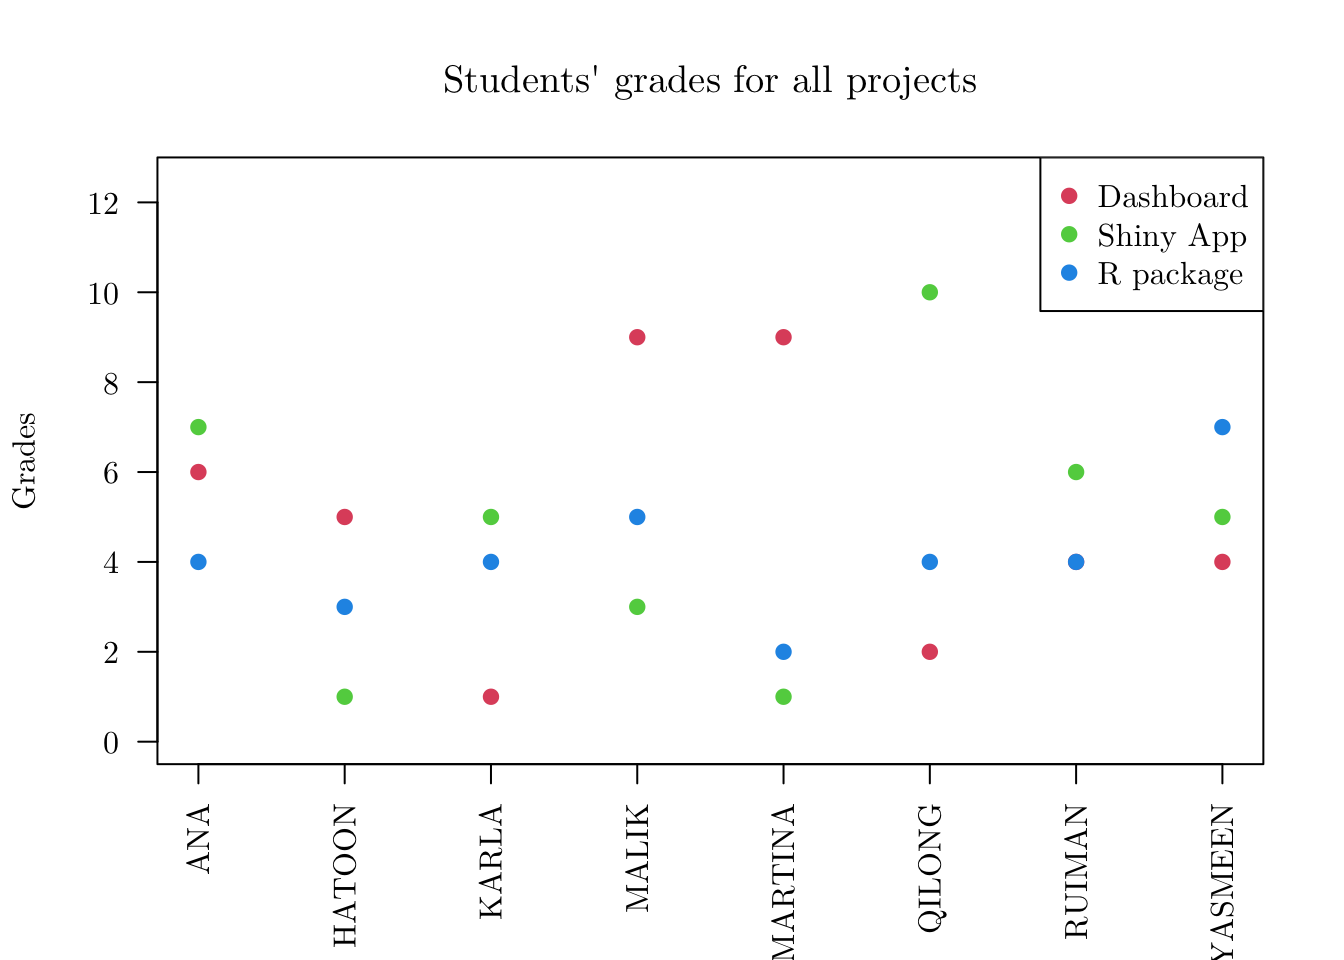
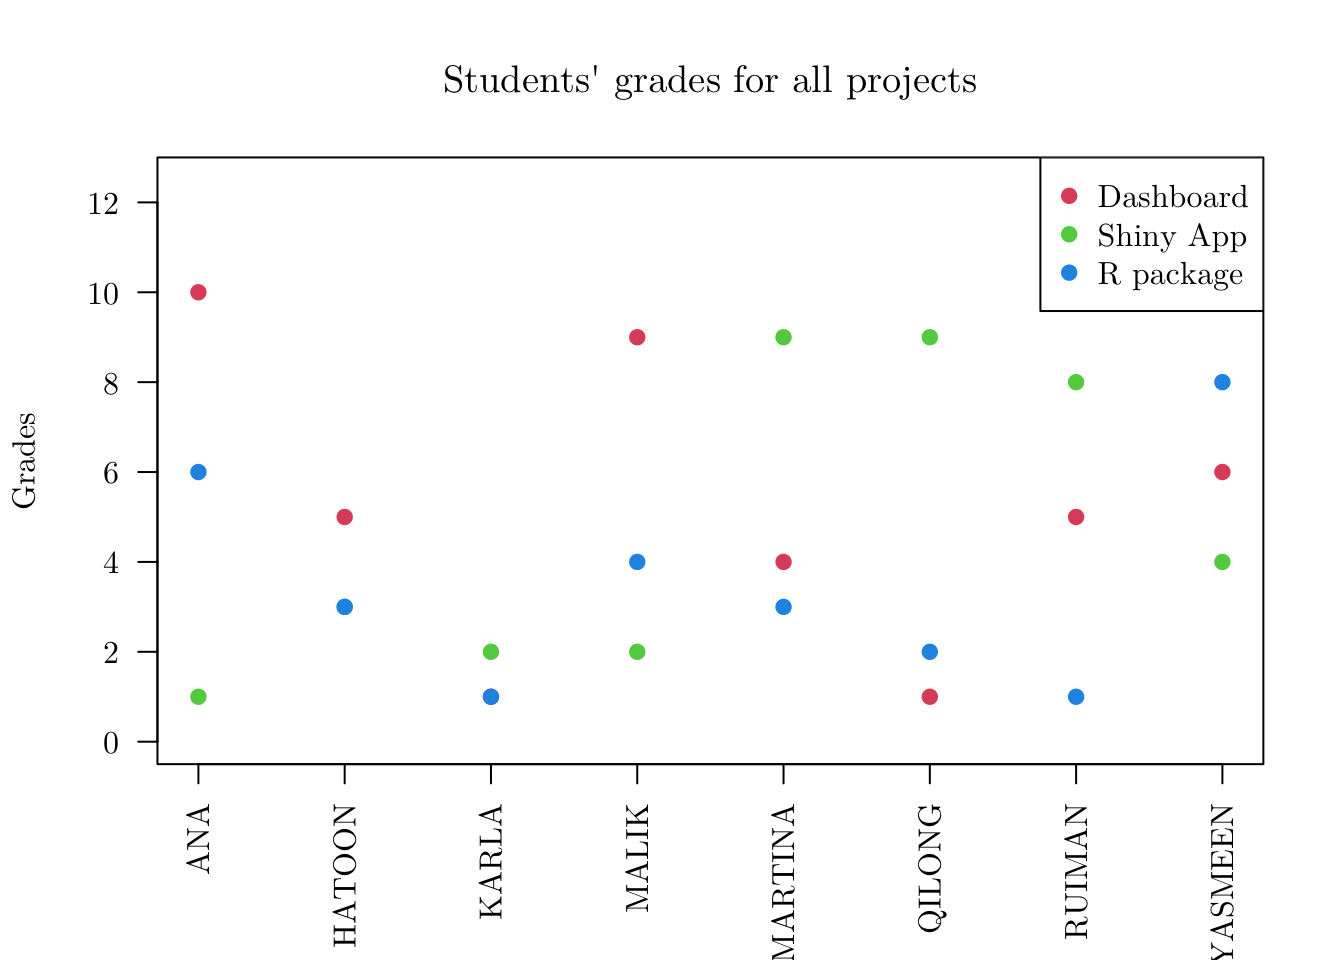
update oop tutorial

diff --git a/docs/oop.html b/docs/oop.html
@@ -438,12 +438,12 @@ fact</code></pre>
 ##      3      2</code></pre>
 <pre class="r"><code>summary(df)</code></pre>
 <pre><code>##        V1                V2          
-##  Min.   :-1.7095   Min.   :-0.22376  
-##  1st Qu.:-1.4945   1st Qu.:-0.01754  
-##  Median :-1.2795   Median : 0.18868  
-##  Mean   :-1.2795   Mean   : 0.18868  
-##  3rd Qu.:-1.0645   3rd Qu.: 0.39490  
-##  Max.   :-0.8495   Max.   : 0.60111</code></pre>
+##  Min.   :-1.0285   Min.   :-0.05797  
+##  1st Qu.:-0.8823   1st Qu.:-0.05535  
+##  Median :-0.7361   Median :-0.05273  
+##  Mean   :-0.7361   Mean   :-0.05273  
+##  3rd Qu.:-0.5898   3rd Qu.:-0.05011  
+##  Max.   :-0.4436   Max.   :-0.04750</code></pre>
 <p>For the <code>fact</code> object, <code>summary()</code> returns the count of observations in each class, and for the <code>df</code> object, it returns a few statistics that can be computed for each numeric vector (represented by <code>df</code>’s columns).</p>
 <p>If we want to check if a particular function is a <strong>generic function</strong>, we can use the <code>ftype()</code> function from the <code>sloop</code> package.</p>
 <pre class="r"><code>library(sloop)
@@ -469,7 +469,7 @@ sloop::ftype(f = summary)</code></pre>
 ##         c(tt, `NA&#39;s` = sum(nas))
 ##     else tt
 ## }
-## &lt;bytecode: 0x7fea82c820f0&gt;
+## &lt;bytecode: 0x7fcd60e0ca28&gt;
 ## &lt;environment: namespace:base&gt;</code></pre>
 <pre class="r"><code>summary.data.frame</code></pre>
 <pre><code>## function (object, maxsum = 7L, digits = max(3L, getOption(&quot;digits&quot;) - 
@@ -538,7 +538,7 @@ sloop::ftype(f = summary)</code></pre>
 ##     attr(z, &quot;class&quot;) &lt;- c(&quot;table&quot;)
 ##     z
 ## }
-## &lt;bytecode: 0x7fea82cde4e0&gt;
+## &lt;bytecode: 0x7fcd60e68e18&gt;
 ## &lt;environment: namespace:base&gt;</code></pre>
 <div class="space">
 
@@ -923,7 +923,13 @@ library(R6)</code></pre>
     invisible(self)
   }
 )) </code></pre>
-<p>A few things to be noticed from the above code: - The class name (<code>Students</code>) is the same as the <code>classname</code> parameter (<code>Students</code>). - For the <code>public</code> parameter (<code>private</code> and <code>active</code> also exist), we are defining <strong>attributes</strong> (<code>n_students</code>, <code>ids</code>, <code>names</code>) and <strong>methods</strong> (<code>add_student()</code>). - Inside the <code>add_student()</code> method, we have to use the <code>self$attribute</code> notation to refer to the objects’ attributes. - After calling a method, we are returning the object itself, so that we can use a chained notation (as we will see below).</p>
+<p>A few things to be noticed from the above code:</p>
+<ul>
+<li>The class name (<code>Students</code>) is the same as the <code>classname</code> parameter (<code>Students</code>).</li>
+<li>For the <code>public</code> parameter (<code>private</code> and <code>active</code> also exist), we are defining <strong>attributes</strong> (<code>n_students</code>, <code>ids</code>, <code>names</code>) and <strong>methods</strong> (<code>add_student()</code>).</li>
+<li>Inside the <code>add_student()</code> method, we have to use the <code>self$attribute</code> notation to refer to the objects’ attributes.</li>
+<li>After calling a method, we are returning the object itself, so that we can use a chained notation (as we will see below).</li>
+</ul>
 <p>Then, we can print the class <code>Students</code></p>
 <pre class="r"><code>Students</code></pre>
 <pre><code>## &lt;Students&gt; object generator
@@ -1124,14 +1130,14 @@ prjs</code></pre>
 ## 
 ## $grades
 ##      [,1] [,2] [,3]
-## [1,]    6    7    4
-## [2,]    5    1    3
-## [3,]    1    5    4
-## [4,]    9    3    5
-## [5,]    9    1    2
-## [6,]    2   10    4
-## [7,]    4    6    4
-## [8,]    4    5    7
+## [1,]   10    1    6
+## [2,]    5    3    3
+## [3,]    1    2    1
+## [4,]    9    2    4
+## [5,]    4    9    3
+## [6,]    1    9    2
+## [7,]    5    8    1
+## [8,]    6    4    8
 ## 
 ## attr(,&quot;class&quot;)
 ## [1] &quot;projects&quot;</code></pre>
@@ -1170,12 +1176,12 @@ presentation_schedule &lt;- function (x, dates, presentations_per_day) {
 }
 
 presentation_schedule(x = stds, dates = c(&#39;Monday&#39;, &#39;Thursday&#39;), presentations_per_day = 5)</code></pre>
-<pre><code>##    Monday Thursday
-## 1   MALIK      ANA
-## 2 MARTINA  YASMEEN
-## 3  QILONG   HATOON
-## 4   KARLA     &lt;NA&gt;
-## 5  RUIMAN     &lt;NA&gt;</code></pre>
+<pre><code>##   Monday Thursday
+## 1 QILONG      ANA
+## 2  KARLA  MARTINA
+## 3  MALIK  YASMEEN
+## 4 RUIMAN     &lt;NA&gt;
+## 5 HATOON     &lt;NA&gt;</code></pre>
 <p>For the <code>presentation_schedule()</code> function, notice that we also require <code>x</code> to be an object of class <code>students</code> <strong>or</strong> <code>projects</code>.</p>
 <div class="space">
 
@@ -1201,14 +1207,14 @@ print(prjs)</code></pre>
 ## 
 ## $grades
 ##      [,1] [,2] [,3]
-## [1,]    6    7    4
-## [2,]    5    1    3
-## [3,]    1    5    4
-## [4,]    9    3    5
-## [5,]    9    1    2
-## [6,]    2   10    4
-## [7,]    4    6    4
-## [8,]    4    5    7
+## [1,]   10    1    6
+## [2,]    5    3    3
+## [3,]    1    2    1
+## [4,]    9    2    4
+## [5,]    4    9    3
+## [6,]    1    9    2
+## [7,]    5    8    1
+## [8,]    6    4    8
 ## 
 ## attr(,&quot;class&quot;)
 ## [1] &quot;projects&quot;</code></pre>
@@ -1228,14 +1234,14 @@ print(prjs)</code></pre>
 # After
 print(prjs)</code></pre>
 <pre><code>##         Dashboard Shiny App R package
-## ANA             6         7         4
-## HATOON          5         1         3
-## KARLA           1         5         4
-## MALIK           9         3         5
-## MARTINA         9         1         2
-## QILONG          2        10         4
-## RUIMAN          4         6         4
-## YASMEEN         4         5         7</code></pre>
+## ANA            10         1         6
+## HATOON          5         3         3
+## KARLA           1         2         1
+## MALIK           9         2         4
+## MARTINA         4         9         3
+## QILONG          1         9         2
+## RUIMAN          5         8         1
+## YASMEEN         6         4         8</code></pre>
 <div class="space">
 
 </div>
@@ -1258,22 +1264,22 @@ print(prjs)</code></pre>
 
 summary(prjs)</code></pre>
 <pre><code>## Dashboard
-## mean: 5
-## sd:   2.9277
-## min:  1
-## max:  9
-##  
-## Shiny App
-## mean: 4.75
-## sd:   3.058945
+## mean: 5.125
+## sd:   3.270539
 ## min:  1
 ## max:  10
 ##  
+## Shiny App
+## mean: 4.75
+## sd:   3.370036
+## min:  1
+## max:  9
+##  
 ## R package
-## mean: 4.125
-## sd:   1.457738
-## min:  2
-## max:  7
+## mean: 3.5
+## sd:   2.44949
+## min:  1
+## max:  8
 ## </code></pre>
 <div class="space">
 
